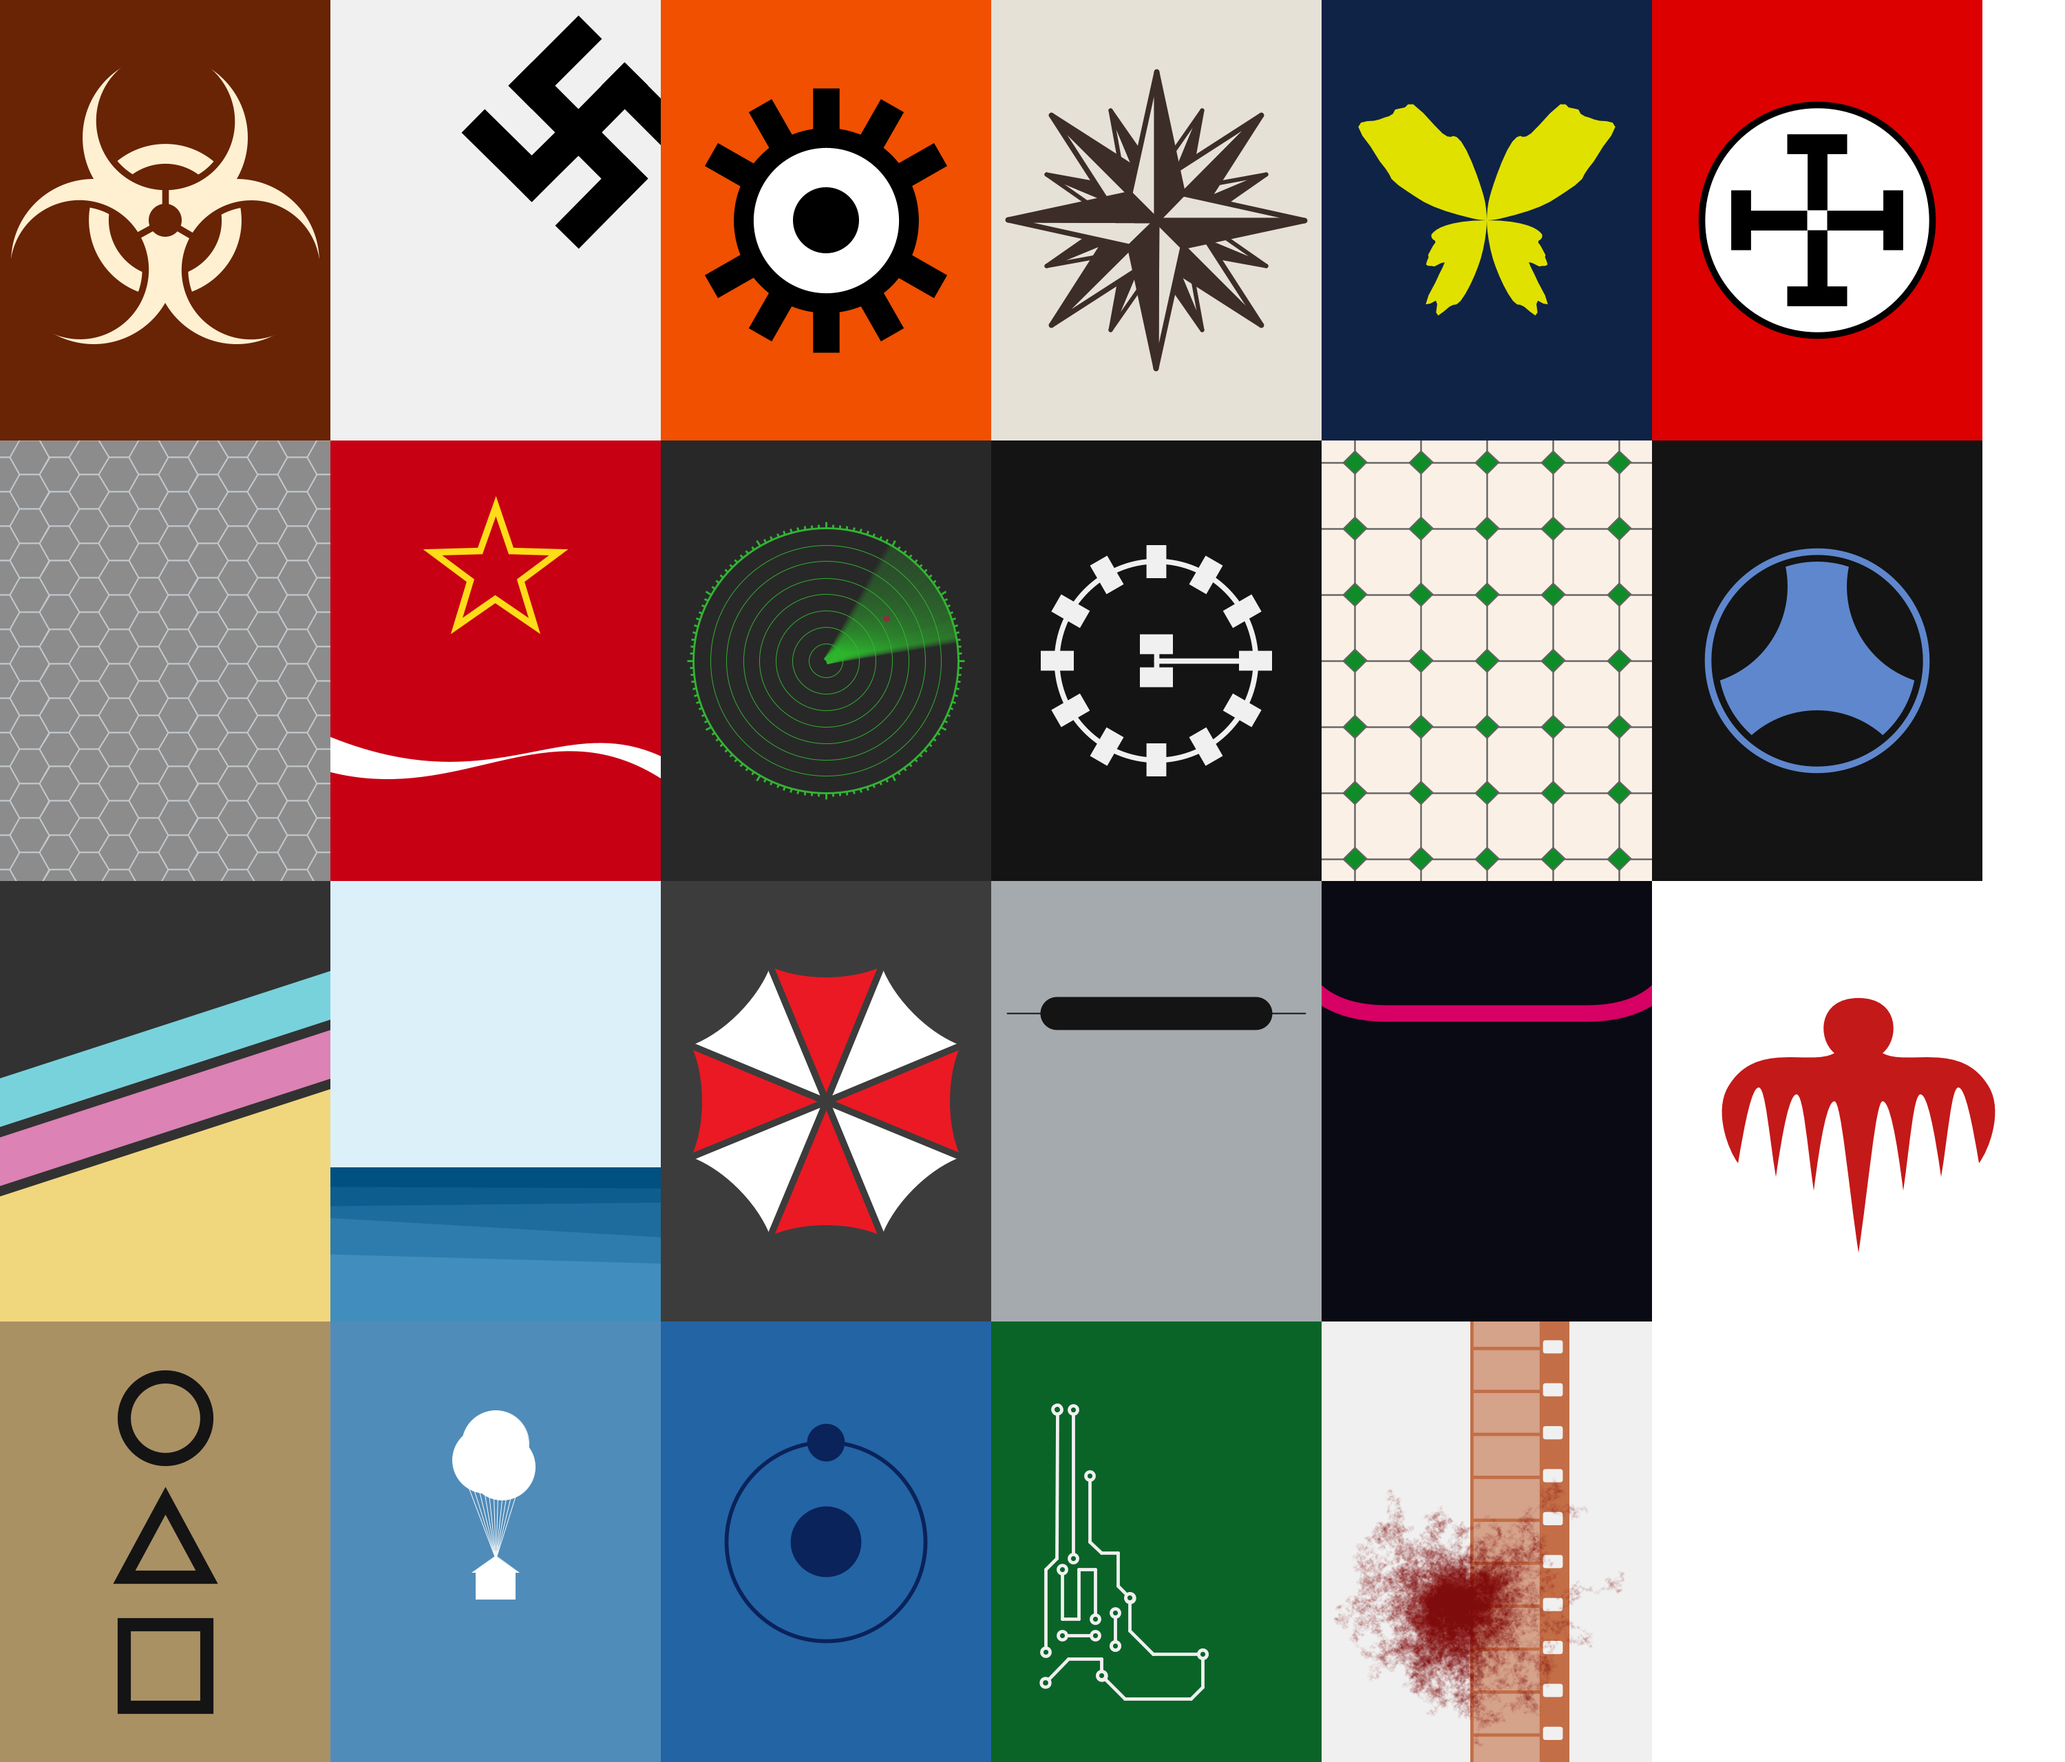
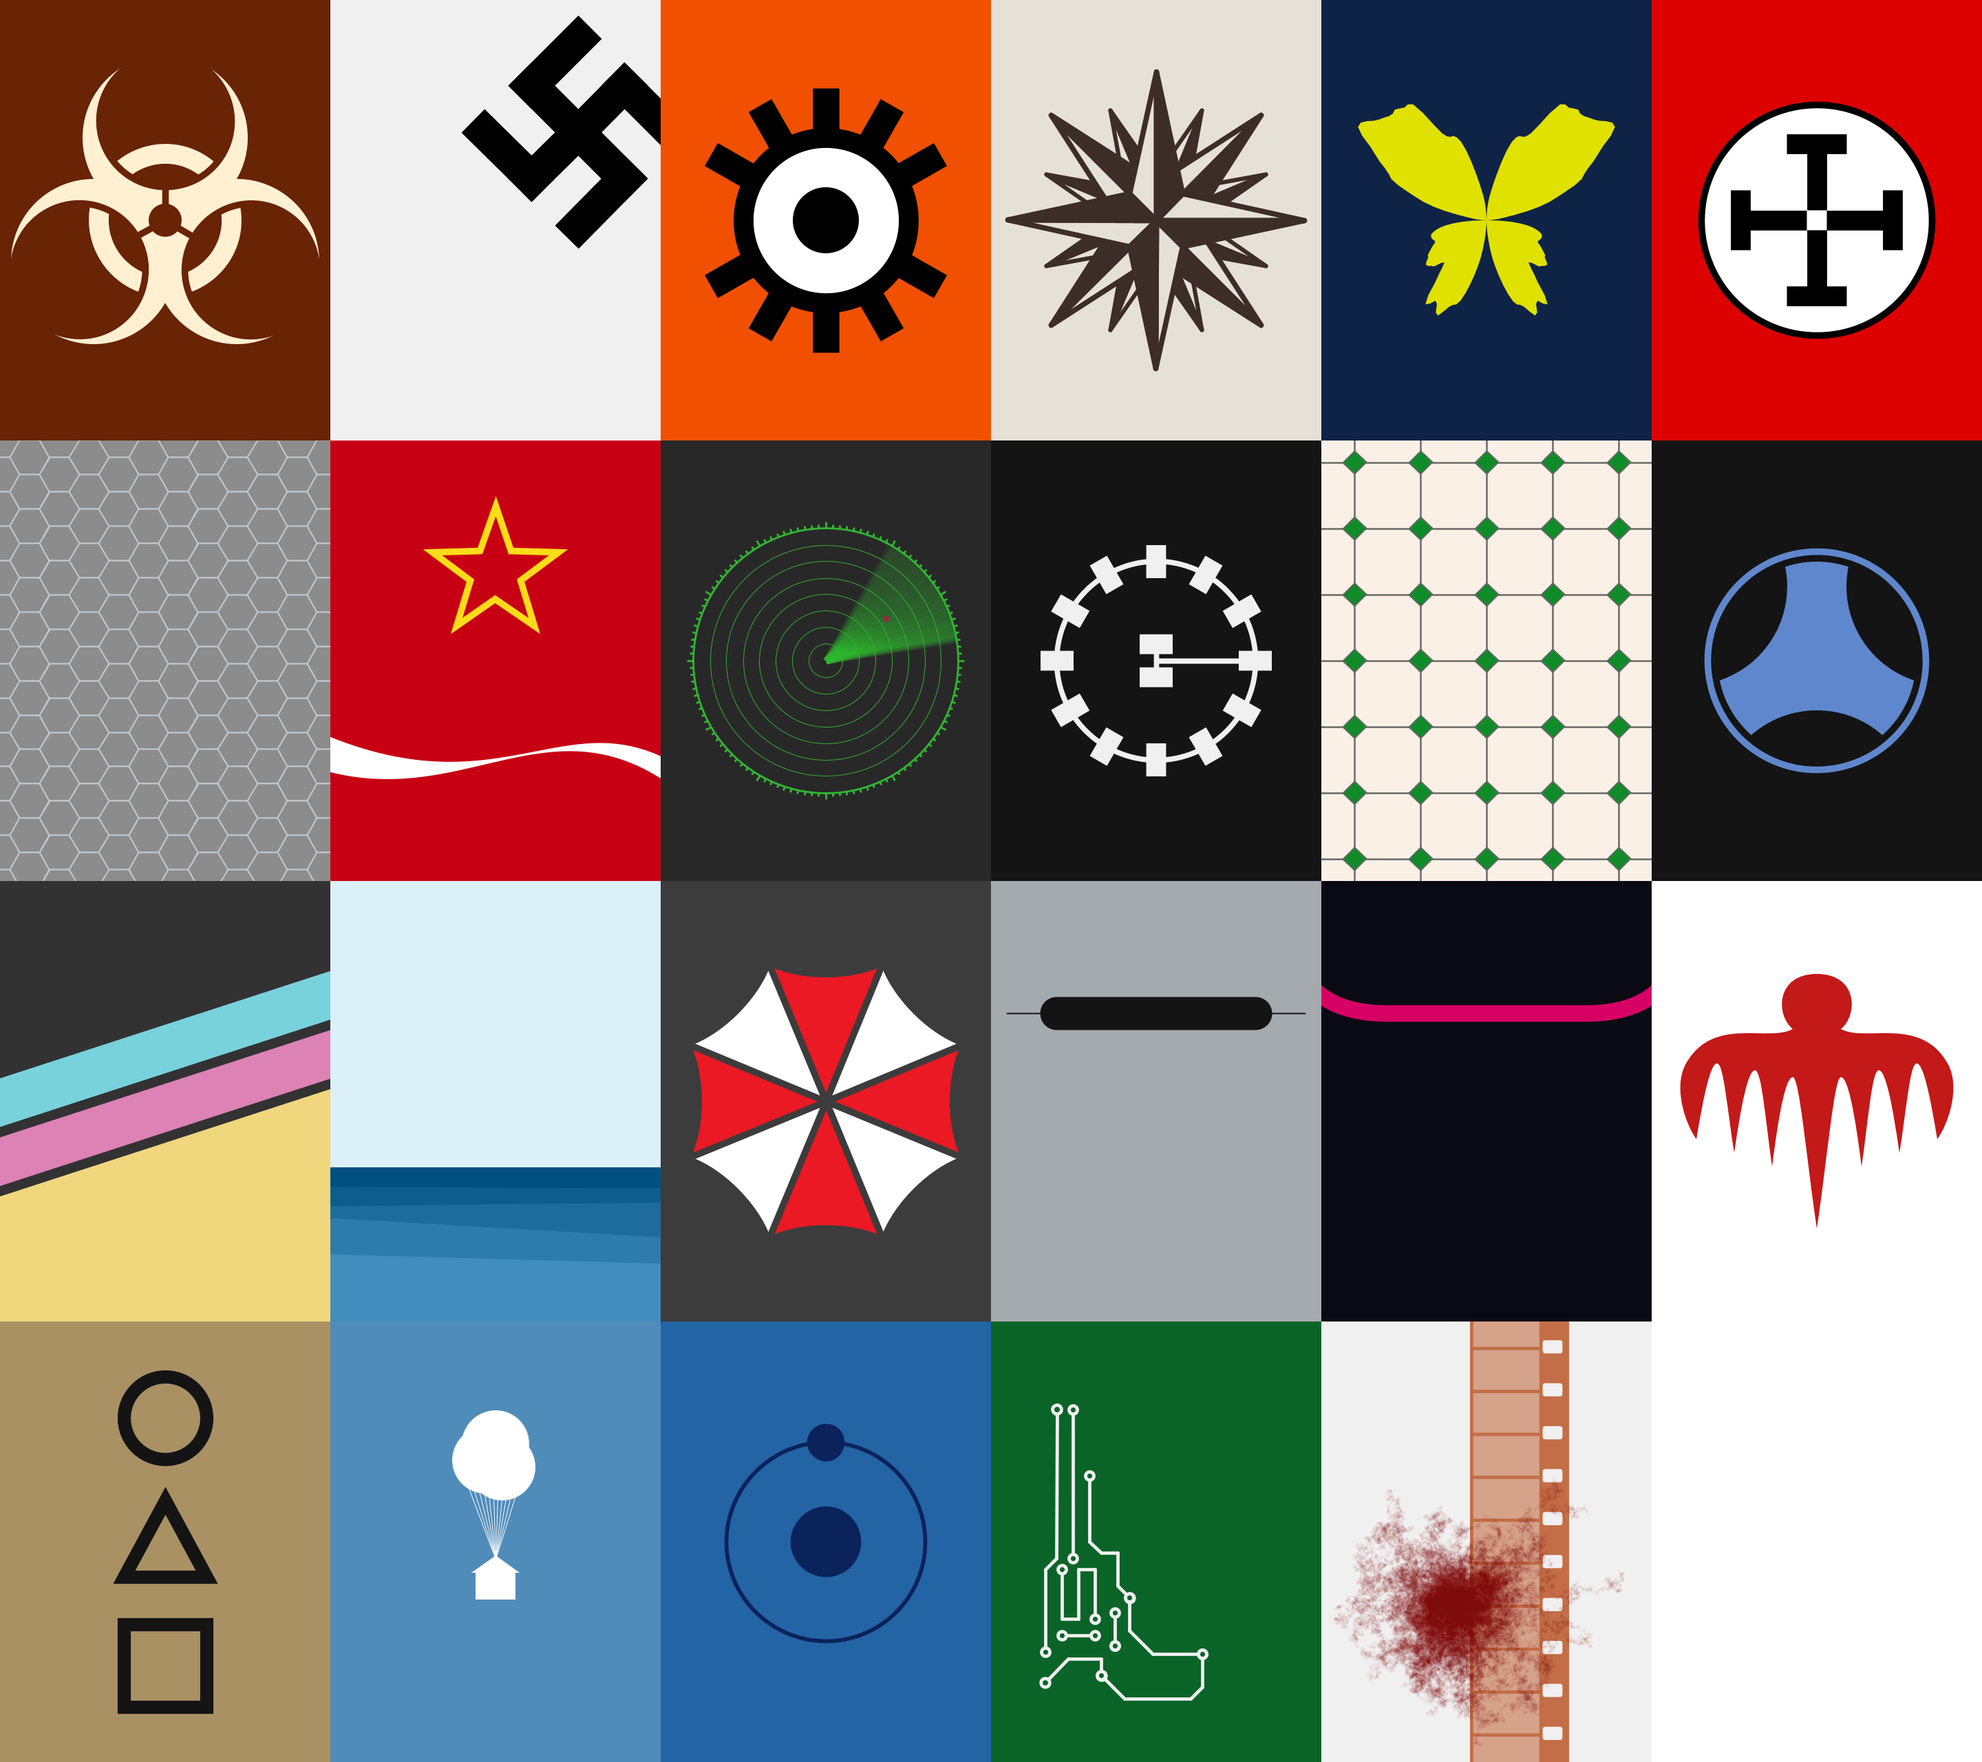
pages updated

diff --git a/examples/volume6/spectre/README.md b/examples/volume6/spectre/README.md
@@ -26,17 +26,18 @@ A cryptic message from James Bond's past sends him on a trail to uncover the exi
 
 
 void setup() {
-  size(600, 600);
-  smooth();
+  size(480, 640);
   noLoop();
 }
 
 
 void draw() {
-  background(255);
+  final float S = min(width, height);
 
-  // Sposta l'origine al centro della finestra, leggermente rialzata
-  translate(width / 2, height / 2 - 30);
+  translate(0.5*width, 0.5*height);
+  scale(S);
+
+  background(255);
 
   noStroke();
   fill(195, 25, 25);
@@ -44,65 +45,65 @@ void draw() {
   beginShape();
 
   // PUNTO DI PARTENZA: Testa in alto al centro
-  vertex(0, -120);
+  vertex(0.0000, -0.3854);
 
   // --- LATO DESTRO ---
   // Testa (curva destra)
-  bezierVertex(60, -120, 60, -60, 35, -40);
+  bezierVertex(0.1250, -0.3854, 0.1250, -0.2604, 0.0729, -0.2188);
 
   // Spalla destra (curva ampia verso l'esterno)
-  bezierVertex(70, -20, 150, -60, 190, 10);
+  bezierVertex(0.1458, -0.1771, 0.3125, -0.2604, 0.3958, -0.1146);
 
   // Tentacolo esterno (3° da destra) - punta
-  bezierVertex(210, 45, 190, 100, 175, 120);
+  bezierVertex(0.4375, -0.0417, 0.3958,  0.0729, 0.3646,  0.1146);
 
   // Membrana tra 3° e 2° tentacolo
-  bezierVertex(165, 60, 155, 10, 145, 10);
+  bezierVertex(0.3438, -0.0104, 0.3229, -0.1146, 0.3021, -0.1146);
 
   // Tentacolo medio (2° da destra) - punta
-  bezierVertex(135, 10, 130, 80, 120, 140);
+  bezierVertex(0.2813, -0.1146, 0.2708,  0.0313, 0.2500,  0.1563);
 
   // Membrana tra 2° e 1° tentacolo
-  bezierVertex(110, 70, 100, 20, 90, 20);
+  bezierVertex(0.2292,  0.0104, 0.2083, -0.0938, 0.1875, -0.0938);
 
   // Tentacolo interno (1° da destra) - punta
-  bezierVertex(80, 20, 75, 90, 65, 160);
+  bezierVertex(0.1667, -0.0938, 0.1563,  0.0521, 0.1354,  0.1979);
 
   // Membrana tra 1° tentacolo e centrale
-  bezierVertex(55, 80, 45, 30, 35, 30);
+  bezierVertex(0.1146,  0.0313, 0.0938, -0.0729, 0.0729, -0.0729);
 
   // Tentacolo centrale - punta (il più lungo)
-  bezierVertex(25, 30, 15, 150, 0, 250);
+  bezierVertex(0.0521, -0.0729, 0.0313,  0.1771, 0.0000,  0.3854);
 
   // --- LATO SINISTRO (Specchiato perfettamente) ---
   // Invertiamo i valori X e l'ordine per chiudere la forma senza interruzioni
 
   // Tentacolo centrale (risalita lato sinistro)
-  bezierVertex(-15, 150, -25, 30, -35, 30);
+  bezierVertex(-0.0313,  0.1771, -0.0521, -0.0729, -0.0729, -0.0729);
 
   // Membrana tra centrale e 1° sinistro
-  bezierVertex(-45, 30, -55, 80, -65, 160);
+  bezierVertex(-0.0938, -0.0729, -0.1146,  0.0313, -0.1354,  0.1979);
 
   // Tentacolo interno (1° da sinistra)
-  bezierVertex(-75, 90, -80, 20, -90, 20);
+  bezierVertex(-0.1563,  0.0521, -0.1667, -0.0938, -0.1875, -0.0938);
 
   // Membrana tra 1° e 2° sinistro
-  bezierVertex(-100, 20, -110, 70, -120, 140);
+  bezierVertex(-0.2083, -0.0938, -0.2292,  0.0104, -0.2500,  0.1563);
 
   // Tentacolo medio (2° da sinistra)
-  bezierVertex(-130, 80, -135, 10, -145, 10);
+  bezierVertex(-0.2708,  0.0313, -0.2813, -0.1146, -0.3021, -0.1146);
 
   // Membrana tra 2° e 3° sinistro
-  bezierVertex(-155, 10, -165, 60, -175, 120);
+  bezierVertex(-0.3229, -0.1146, -0.3438, -0.0104, -0.3646,  0.1146);
 
   // Tentacolo esterno (3° da sinistra)
-  bezierVertex(-190, 100, -210, 45, -190, 10);
+  bezierVertex(-0.3958,  0.0729, -0.4375, -0.0417, -0.3958, -0.1146);
 
   // Spalla sinistra
-  bezierVertex(-150, -60, -70, -20, -35, -40);
+  bezierVertex(-0.3125, -0.2604, -0.1458, -0.1771, -0.0729, -0.2188);
 
   // Testa (curva sinistra fino a chiudere)
-  bezierVertex(-60, -60, -60, -120, 0, -120);
+  bezierVertex(-0.1250, -0.2604, -0.1250, -0.3854, 0.0000, -0.3854);
 
   endShape(CLOSE);
 
